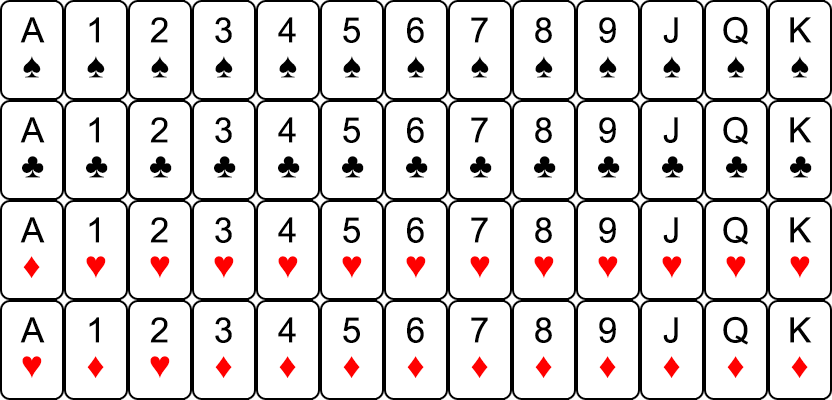
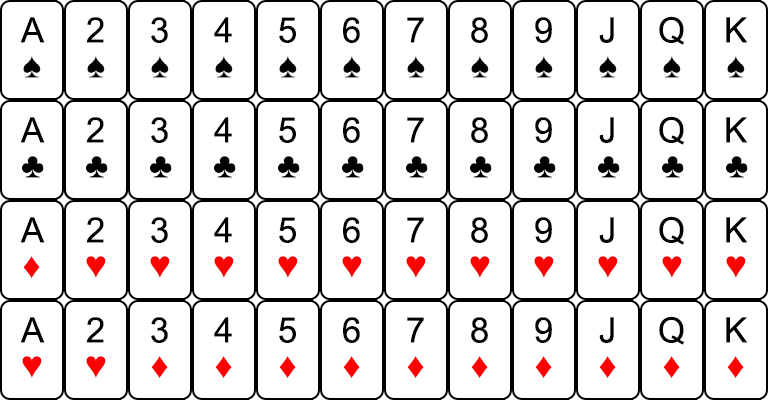
Fixed face card values bug.

diff --git a/commands/blackjack.js b/commands/blackjack.js
@@ -17,9 +17,9 @@ function addCards(hand){
             case 1:
                 total += 11;
             break;
+            case 10:
             case 11:
             case 12:
-            case 13:
                 total += 10;
             break;
             default:
@@ -41,7 +41,7 @@ async function turn(deck, channel, ctx, canvas, cardSheet, player, conn){
         const userDB = await conn.query('SELECT `scritch_bucks` FROM `user` WHERE `user_id` = ?;', [player.id]);
         if(userDB[0][0].scritch_bucks >= player.wager){
             const attachment = new MessageAttachment(canvas.toBuffer(), 'blackjack-table.png');
-            await channel.send({ content: `It is ${player.displayName}'s turn. They have 30 seconds to reply with hit, stand, double down, or surrender.`, files: [attachment] });
+            await channel.send({ content: `It is <@${player.id}>'s turn. They have 30 seconds to reply with hit, stand, double down, or surrender.`, files: [attachment] });
             
             const filter = msg => msg.author.id == player.id && msg.content.match(/^hit|stand|surrender|double down/i);
             const collected = await channel.awaitMessages({ filter, max: 1, time: 30000 });
@@ -126,7 +126,7 @@ async function turn(deck, channel, ctx, canvas, cardSheet, player, conn){
             }
         } else {
             const attachment = new MessageAttachment(canvas.toBuffer(), 'blackjack-table.png');
-            await channel.send({ content: `It is ${player.displayName}'s turn. They have 30 seconds to reply with hit, stand, or surrender.`, files: [attachment] });
+            await channel.send({ content: `It is <@${player.id}>'s turn. They have 30 seconds to reply with hit, stand, or surrender.`, files: [attachment] });
             
             const filter = msg => msg.author.id == player.id && msg.content.match(/^hit|stand|surrender/i);
             const collected = await channel.awaitMessages({ filter, max: 1, time: 30000 });
@@ -176,7 +176,7 @@ async function turn(deck, channel, ctx, canvas, cardSheet, player, conn){
         }
     } else {
         const attachment = new MessageAttachment(canvas.toBuffer(), 'blackjack-table.png');
-        await channel.send({ content: `It is ${player.displayName}'s turn. They have 30 seconds to reply with hit or stand.`, files: [attachment] });
+        await channel.send({ content: `It is <@${player.id}>'s turn. They have 30 seconds to reply with hit or stand.`, files: [attachment] });
         
         const filter = msg => msg.author.id == player.id && msg.content.match(/^hit|stand/i);
     
@@ -284,8 +284,9 @@ module.exports = {
             let deck = [];
             for(let i = 0; i < 6; i++){
                 for(let j = 0; j < 4; j++){
-                    for(let k = 1; k < 14; k++){
+                    for(let k = 1; k < 13; k++){
                         deck.push([j,k]);
+                        console.log(j, k);
                     }
                 }
             }
@@ -415,7 +416,7 @@ module.exports = {
                                 await channel.send(`${player.displayName} doesn't have enough scritch bucks for insurance.`);
                             } else {
                                 const attachment = new MessageAttachment(canvas.toBuffer(), 'blackjack-table.png');
-                                await channel.send({ content: `${player.displayName}, do you want insurance? Reply with yes or no.`, files: [attachment] });
+                                await channel.send({ content: `<@${player.id}>, do you want insurance? Reply with yes or no.`, files: [attachment] });
         
                                 const filter = msg => msg.author.id == player.id && msg.content.match(/^yes|no/i);
         
